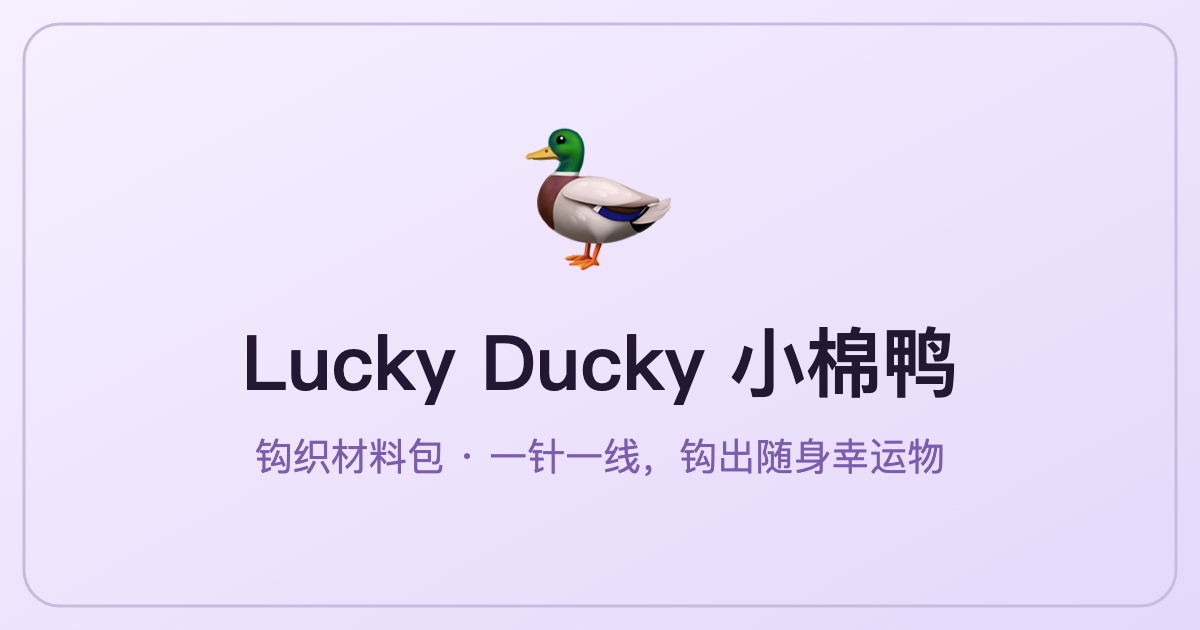
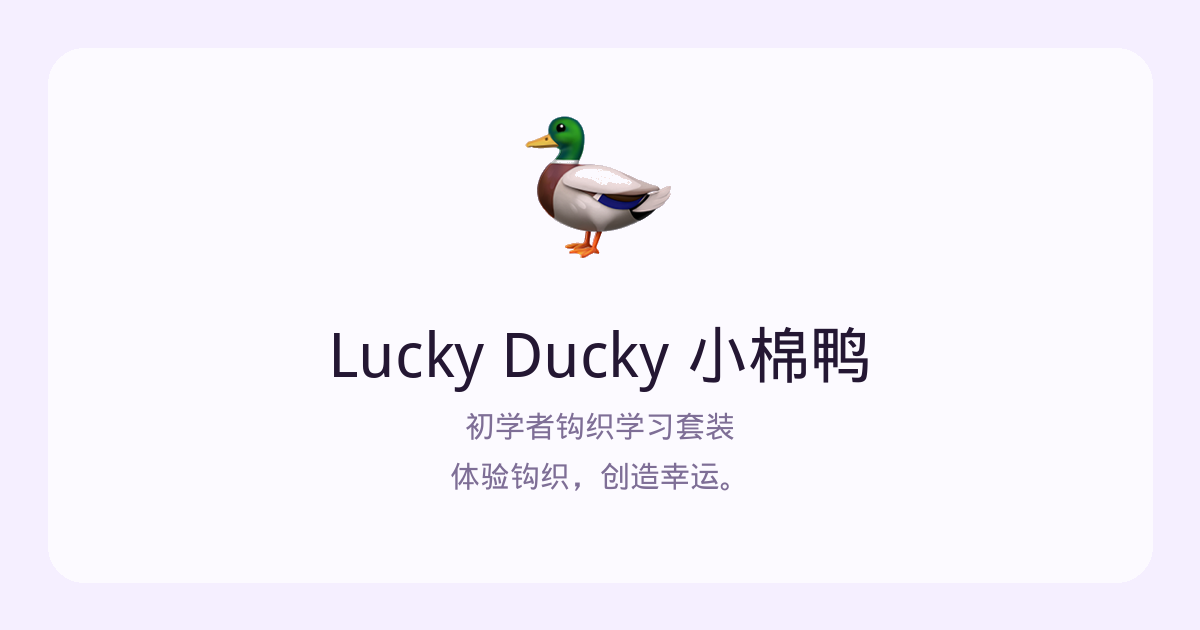
fix：官网口号统一为「体验钩织，创造幸运」（并入 #258 分享图/关于页/FAQ） (#294)
* fix：官网分享图与关于页对齐品牌口径，套装 FAQ 给人看

夜间审计 2026-09-11 官网切片：分享图仍写「钩织材料包」，关于页「开始结®」是假商标；套装售后问答只在 JSON-LD 里。分享图改成初学者钩织学习套装 + 老板 2026-09-11 口号「体验钩织，创造幸运。」；关于页跟小程序写成「开始练习」「分步交互」；四条 FAQ 用 details 给人看。identity 测 PNG 文案块，文件在不代表字对。

验证：npm run check 绿（structure + typecheck + lint + 1819 test）。反向自检见后续。

* fix：官网口号统一为「体验钩织，创造幸运」

老板 2026-09-15 拍板：中文口号是「体验钩织，创造幸运。」，不是「尝试钩织」。
小程序 brand.ts 早已是体验钩织，这批把官网剩下的 5 处文案 + 3 条测试断言对齐：
- 页脚品牌行（Base.astro）/ 关于页「我们相信」/ llms.txt 口号行
- 身份句 BRAND_IDENTITY + Organization.slogan（结构化数据）
- footer/identity/schema 三处测试改断言，并新增 not.toContain('尝试钩织') 锁住身份句与首页/关于/套装/llms 四页

不动 Lucky Ducky / 小棉鸭 / 初学者钩织学习套装 / get ducky, get lucky。

验证：npm run check 全绿（1851 test）；反向自检：页脚与身份句改回「尝试钩织」→ footer/identity 两测红，还原绿。

---------

diff --git a/rewrite/site/tests/identity.test.ts b/rewrite/site/tests/identity.test.ts
@@ -10,6 +10,9 @@ const pages = {
   llms: readFileSync(new URL('../src/pages/llms.txt.ts', import.meta.url), 'utf8'),
 }
 
+const ogCover = readFileSync(new URL('../public/og-cover.png', import.meta.url))
+const ogText = ogCover.toString('utf8')
+
 describe('官网品牌身份可引用', () => {
   it('大白话：身份句写明品牌名、英文名、官网、初学者钩织学习套装、两句口号、微信搜法；首页/关于/套装/llms 都挂这句；不叫材料包', () => {
     expect(BRAND_IDENTITY).toContain('小棉鸭是品牌名')
@@ -17,14 +20,37 @@ describe('官网品牌身份可引用', () => {
     expect(BRAND_IDENTITY).toContain('luckyducky.cn')
     expect(BRAND_IDENTITY).toContain('初学者钩织学习套装')
     expect(BRAND_IDENTITY).toContain('不是钩织圈对手工鸭子的泛称')
-    expect(BRAND_IDENTITY).toContain('尝试钩织，创造幸运')
+    expect(BRAND_IDENTITY).toContain('体验钩织，创造幸运')
     expect(BRAND_IDENTITY).toContain('get ducky, get lucky')
     expect(BRAND_IDENTITY).toContain('微信搜「LuckyDucky小棉鸭」')
     expect(BRAND_IDENTITY).not.toContain('材料包')
+    expect(BRAND_IDENTITY).not.toContain('尝试钩织')
     expect(pages.home).toContain('<p>{BRAND_IDENTITY}</p>')
     expect(pages.about).toContain('<p>{BRAND_IDENTITY}</p>')
     expect(pages.kits).toContain('<p>{BRAND_IDENTITY}</p>')
     expect(pages.llms).toContain('${BRAND_IDENTITY}')
-    for (const src of Object.values(pages)) expect(src).not.toContain('材料包')
+    for (const src of Object.values(pages)) {
+      expect(src).not.toContain('材料包')
+      expect(src).not.toContain('尝试钩织')
+    }
+  })
+
+  it('大白话：关于页跟小程序一样写「开始练习」「分步交互」，不写假注册商标', () => {
+    expect(pages.about).toContain('开始练习')
+    expect(pages.about).toContain('分步交互')
+    expect(pages.about).not.toContain('开始结')
+    expect(pages.about).not.toContain('®')
+  })
+
+  it('大白话：分享图文案块写初学者钩织学习套装和体验钩织，不写材料包；光有文件不够', () => {
+    expect(ogCover[0]).toBe(0x89)
+    expect(ogCover.subarray(1, 4).toString('ascii')).toBe('PNG')
+    expect(ogCover.readUInt32BE(16)).toBe(1200)
+    expect(ogCover.readUInt32BE(20)).toBe(630)
+    expect(ogText).toContain('初学者钩织学习套装')
+    expect(ogText).toContain('体验钩织，创造幸运')
+    expect(ogText).not.toContain('材料包')
+    expect(ogText).not.toContain('尝试钩织')
+    expect(ogText).not.toContain('学习钩织')
   })
 })

diff --git a/rewrite/site/src/lib/schema.ts b/rewrite/site/src/lib/schema.ts
@@ -4,7 +4,7 @@ export const SITE = 'https://www.luckyducky.cn'
 export const BRAND_NAME = 'Lucky Ducky 小棉鸭'
 /** 搜索/模型可整段引用的品牌身份（可见正文与 Organization.description 同句）。 */
 export const BRAND_IDENTITY =
-  '小棉鸭是品牌名，英文名 Lucky Ducky，官网是 luckyducky.cn。小棉鸭做初学者钩织学习套装，不是钩织圈对手工鸭子的泛称。口号是「尝试钩织，创造幸运 / get ducky, get lucky」。微信搜「LuckyDucky小棉鸭」即可找到。'
+  '小棉鸭是品牌名，英文名 Lucky Ducky，官网是 luckyducky.cn。小棉鸭做初学者钩织学习套装，不是钩织圈对手工鸭子的泛称。口号是「体验钩织，创造幸运 / get ducky, get lucky」。微信搜「LuckyDucky小棉鸭」即可找到。'
 
 const abs = (path: string): string => (path.startsWith('http') ? path : SITE + (path.startsWith('/') ? path : '/' + path))
 
@@ -21,7 +21,7 @@ export function orgSchema(): Record<string, unknown> {
     alternateName: ['小棉鸭', 'Lucky Ducky', 'LuckyDucky小棉鸭'],
     url: SITE,
     description: BRAND_IDENTITY,
-    slogan: '尝试钩织，创造幸运 / get ducky, get lucky',
+    slogan: '体验钩织，创造幸运 / get ducky, get lucky',
   }
 }
 

diff --git a/rewrite/site/src/pages/llms.txt.ts b/rewrite/site/src/pages/llms.txt.ts
@@ -24,7 +24,7 @@ export const GET: APIRoute = async () => {
     '## 事实要点',
     '',
     `- 品牌名：${BRAND_NAME}（小棉鸭是品牌名，英文名 Lucky Ducky，官网 luckyducky.cn）`,
-    '- 口号：尝试钩织，创造幸运 / get ducky, get lucky',
+    '- 口号：体验钩织，创造幸运 / get ducky, get lucky',
     '- 购买渠道：微信小程序（微信搜「LuckyDucky小棉鸭」）；本站不做交易，价格/规格以小程序货架为准',
     '- 初学者钩织学习套装内容：毛线、钩针、填充棉、安全眼、说明卡与配套视频课程激活卡',
     '- 教学形态：每份初学者钩织学习套装配分步教学视频，扫激活卡开课，按段落分步学习',

diff --git a/rewrite/site/tests/footer.test.ts b/rewrite/site/tests/footer.test.ts
@@ -13,7 +13,7 @@ describe('官网共用页脚备案号与执照链', () => {
     expect(footer).toContain('href="https://beian.miit.gov.cn/"')
     expect(footer).toContain('target="_blank"')
     expect(footer).toContain('rel="noopener noreferrer"')
-    expect(footer).toContain('{BRAND_NAME} · 尝试钩织，创造幸运。')
+    expect(footer).toContain('{BRAND_NAME} · 体验钩织，创造幸运。')
     expect(footer).toContain('class="mp-hint"')
     expect(footer).toContain('微信搜「LuckyDucky小棉鸭」')
     expect(footer).toContain('营业执照')

diff --git a/rewrite/site/tests/kits-faq.test.ts b/rewrite/site/tests/kits-faq.test.ts
@@ -14,4 +14,12 @@ describe('官网套装页售后 FAQ', () => {
     expect(kits).not.toMatch(/满\s*¥?\s*100\s*包邮/)
     expect(kits).not.toContain('全场包邮')
   })
+
+  it('大白话：四条问答人看得见（<details>），不是只塞进 JSON-LD 给机器', () => {
+    expect(kits).toContain('<details>')
+    expect(kits).toContain('<summary>{f.q}</summary>')
+    expect(kits).toContain('<p>{f.a}</p>')
+    expect(kits).toContain('pairs.map')
+    expect(kits).toContain('faqSchema(pairs)')
+  })
 })

diff --git a/rewrite/site/tests/schema.test.ts b/rewrite/site/tests/schema.test.ts
@@ -46,7 +46,7 @@ describe('面包屑与组织卡', () => {
     const org = orgSchema()
     expect(org.name).toContain('小棉鸭')
     expect(org.description).toBe(BRAND_IDENTITY)
-    expect(org.slogan).toBe('尝试钩织，创造幸运 / get ducky, get lucky')
+    expect(org.slogan).toBe('体验钩织，创造幸运 / get ducky, get lucky')
     expect(org.alternateName).toEqual(['小棉鸭', 'Lucky Ducky', 'LuckyDucky小棉鸭'])
   })
 })
